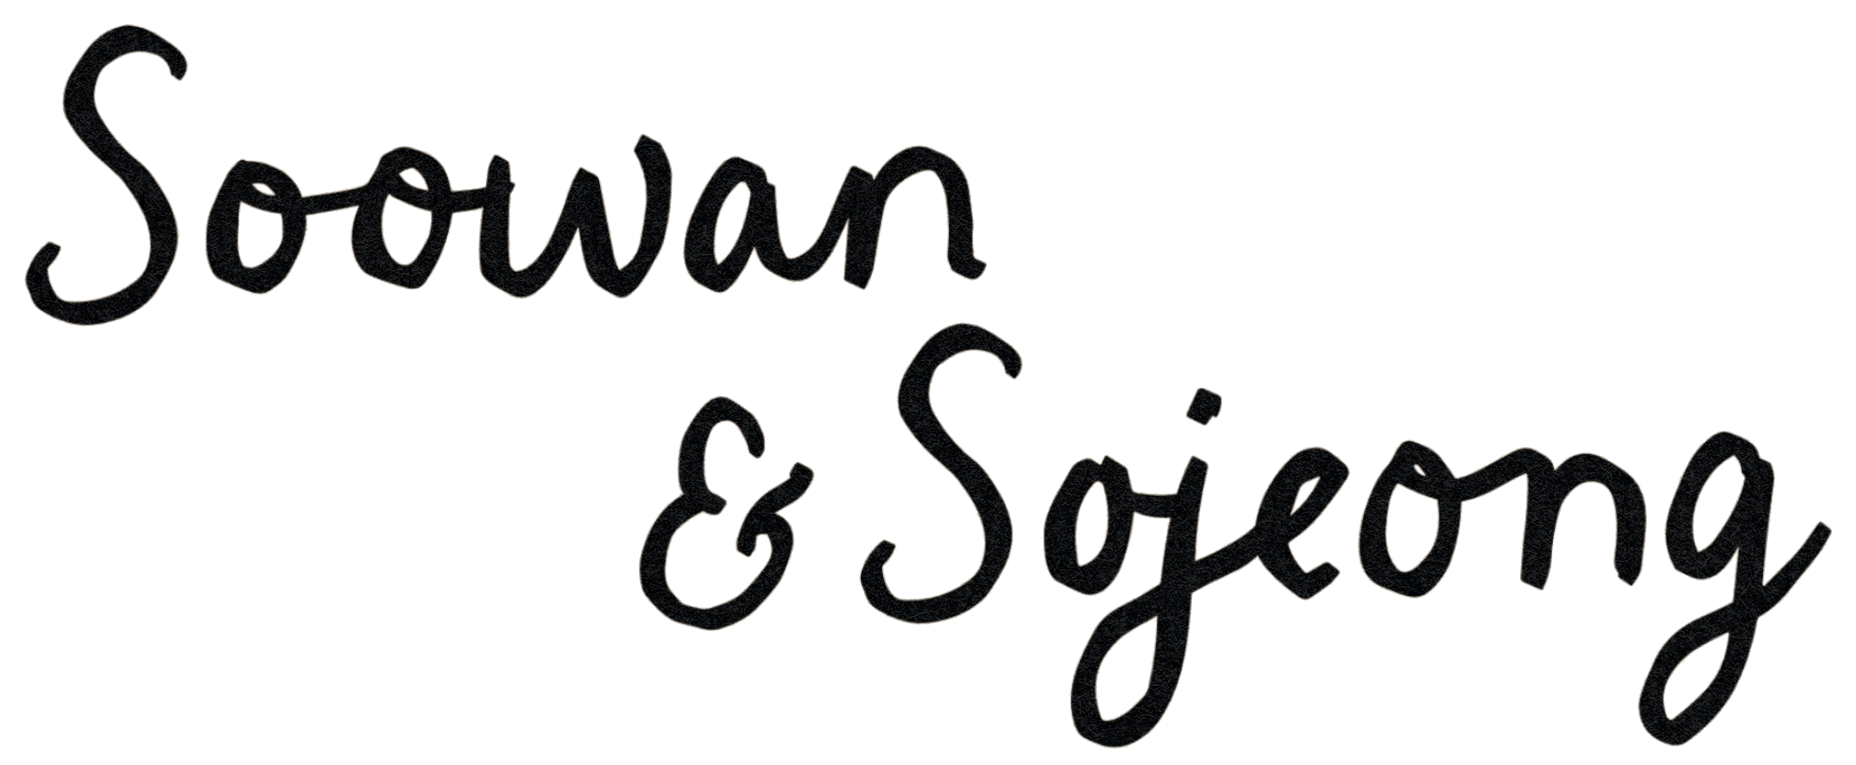
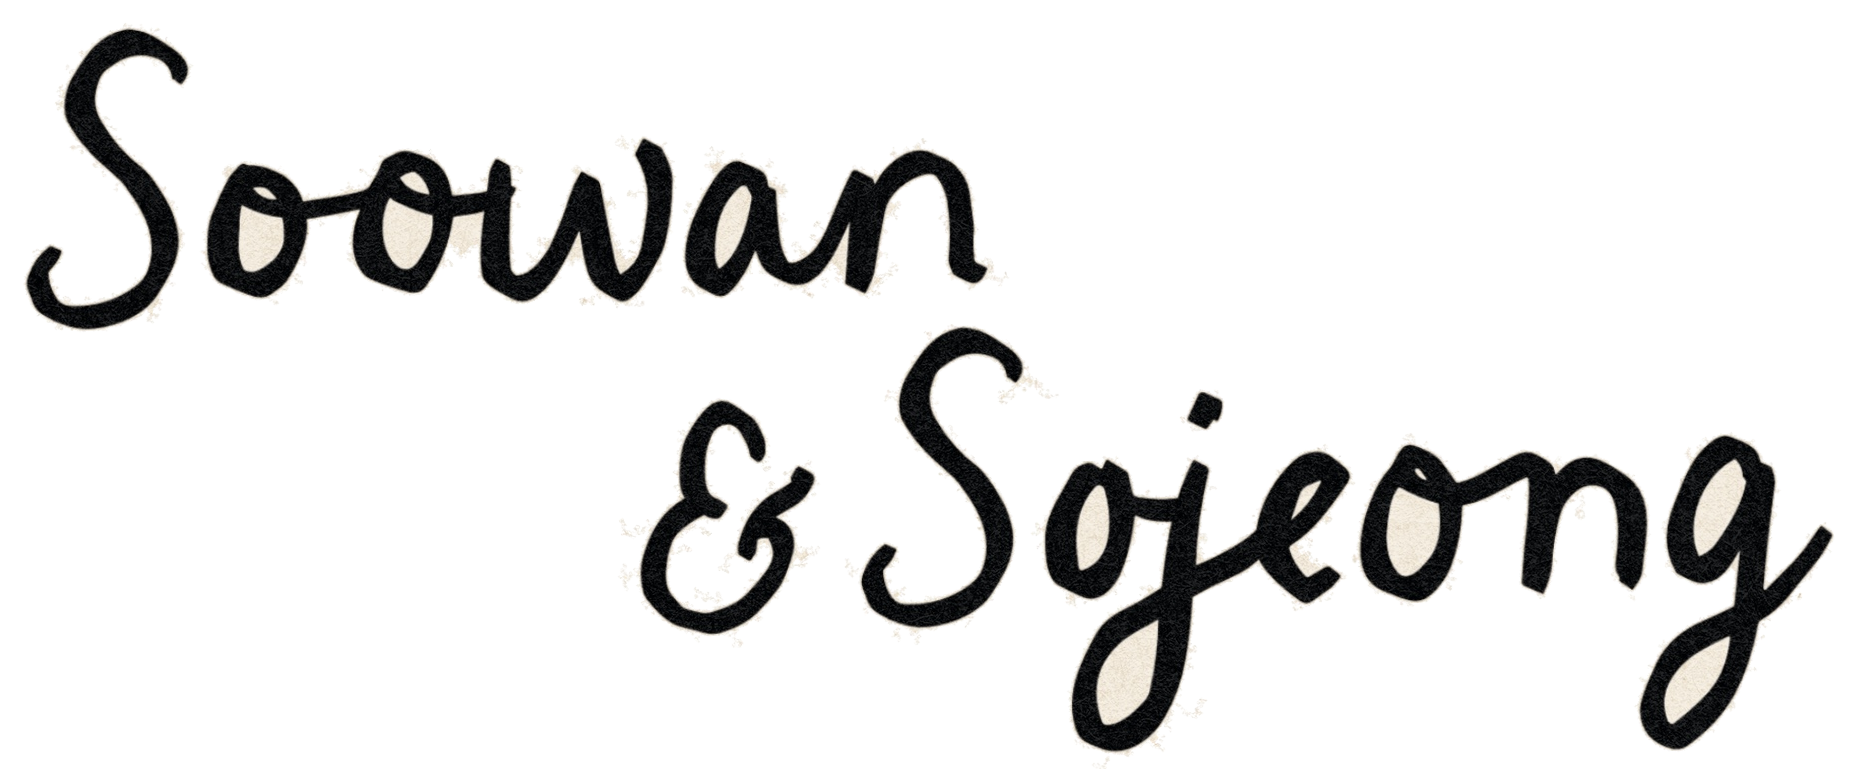
누끼 재작업: 종이색과 비슷한 드레스·베일·피부·다리 색이 빠지던 문제 수정 (스티커 컷 방식)
- cut-paper.py: 색 거리 램프 → "테두리와 이어진 종이색 영역만 배경" 으로 판정. 선 안쪽의 연분홍·살색·베일은 그대로 유지
  종이 섬유 얼룩(평균 색 거리 낮은 덩어리) 제거, 가장자리 띠는 색 거리로 알파를 매겨 베이지 테두리 제거, --paper 옵션
- running / wheelbarrow (+@800), vine, names, og.jpg 전부 재생성, 캐시 버전 올림

diff --git a/index.html b/index.html
@@ -25,7 +25,7 @@
   <link rel="preconnect" href="https://fonts.googleapis.com">
   <link rel="preconnect" href="https://fonts.gstatic.com" crossorigin>
   <link href="https://fonts.googleapis.com/css2?family=Cormorant+Garamond:ital,wght@0,400;1,400&family=Noto+Serif+KR:wght@300;400&family=Caveat:wght@500;600&family=Nanum+Pen+Script&display=swap" rel="stylesheet">
-  <link rel="stylesheet" href="css/style.css?v=20261018d">
+  <link rel="stylesheet" href="css/style.css?v=20261018e">
 </head>
 <body>
 
@@ -228,8 +228,8 @@
 
 <div class="toast" id="toast" role="status" aria-live="polite"></div>
 
-<script src="js/config.js?v=20261018d"></script>
-<script src="js/photos.js?v=20261018d"></script>
-<script src="js/main.js?v=20261018d"></script>
+<script src="js/config.js?v=20261018e"></script>
+<script src="js/photos.js?v=20261018e"></script>
+<script src="js/main.js?v=20261018e"></script>
 </body>
 </html>

diff --git a/tools/cut-paper.py b/tools/cut-paper.py
@@ -9,10 +9,15 @@
   --drop-above Y       윗변이 Y(원본 px)보다 위에 있는 덩어리는 버림 (손글씨 제거용)
   --drop-below Y       윗변이 Y(원본 px)보다 아래에 있는 덩어리는 버림 (손글씨만 남길 때)
   --min-area N         N px 미만 덩어리는 종이 얼룩으로 보고 버림 (기본 400)
+  --paper T            "종이색" 판정 거리 (기본 5.5). 연분홍 드레스·피부가 빠지면 낮추고, 종이가 남으면 높인다
   --pad N              여백 px (기본 24, 리사이즈 전 기준)
 
-배경색은 가장자리 중앙값으로 잡고, 색 거리에 따라 알파를 매긴 뒤
-알파로 되돌려(un-premultiply) 선 색을 복원하므로 어느 배경에 올려도 테두리가 뜨지 않는다.
+방식 (스티커 컷):
+  1) 종이 질감 노이즈를 흐려서 없앤 뒤, 가장자리 종이색(중앙값)과의 색 거리가 T 미만인 픽셀을 "종이 후보"로 본다
+  2) 종이 후보 중 그림 바깥 테두리와 이어진 덩어리만 배경으로 지운다
+     → 선 안쪽에 있는 연분홍 드레스·피부·베일·흰 셔츠처럼 종이와 색이 비슷한 영역은 그대로 남는다
+  3) 선 바깥에 남는 2~3px 종이색 띠(흐림 때문에 생김)는 테두리 띠에서만 걷어낸다
+  4) 가장자리 1px 는 알파로 부드럽게, 색은 알파로 되돌려(un-premultiply) 어느 배경에 올려도 테두리가 뜨지 않게 한다
 """
 import sys
 from pathlib import Path
@@ -21,9 +26,7 @@ import numpy as np
 from scipy import ndimage
 
 args = sys.argv[1:]
-opt = {}
-pos = []
-i = 0
+opt, pos, i = {}, [], 0
 while i < len(args):
     if args[i].startswith("--"):
         opt[args[i][2:]] = args[i + 1]; i += 2
@@ -38,44 +41,63 @@ full = np.asarray(im).astype(np.float32)
 edge = np.concatenate([full[:60].reshape(-1, 3), full[-60:].reshape(-1, 3), full[:, :60].reshape(-1, 3), full[:, -60:].reshape(-1, 3)])
 bg = np.median(edge, 0)
 
+oy = 0
 if "box" in opt:
     L, T, R, B = map(int, opt["box"].split(","))
     im = im.crop((L, T, R, B)); oy = T
-else:
-    oy = 0
 rgb = np.asarray(im).astype(np.float32)
-blur = np.asarray(im.filter(ImageFilter.GaussianBlur(1.2))).astype(np.float32)
-dist = np.sqrt(((blur - bg) ** 2).sum(-1))
-LO, HI = 38.0, 110.0                       # 종이 노이즈 상한 ~64, 선 ~300
-alpha = np.clip((dist - LO) / (HI - LO), 0, 1)
+h, w = rgb.shape[:2]
 
-lab, n = ndimage.label(alpha > 0.35)
+T_PAPER = float(opt.get("paper", 5.5))
+d_smooth = np.sqrt(((np.asarray(im.filter(ImageFilter.GaussianBlur(2.5))).astype(np.float32) - bg) ** 2).sum(-1))
+d_fine   = np.sqrt(((np.asarray(im.filter(ImageFilter.GaussianBlur(1.0))).astype(np.float32) - bg) ** 2).sum(-1))
+
+# 1) 종이 후보 → 2) 테두리와 이어진 덩어리만 배경
+paper = d_smooth < T_PAPER
+lab, n = ndimage.label(paper)
+border_ids = np.unique(np.concatenate([lab[0], lab[-1], lab[:, 0], lab[:, -1]]))
+border_ids = border_ids[border_ids > 0]
+background = np.isin(lab, border_ids)
+fg = ~background
+
+# 3) 선 바깥 종이색 띠 제거: 전경 가장자리 4px 띠 안에서, 미세 거리로도 종이색이면 배경으로
+band = fg & ~ndimage.binary_erosion(fg, iterations=4)
+fg = fg & ~(band & (d_fine < T_PAPER + 1.5))
+fg = ndimage.binary_opening(fg, iterations=1) | ndimage.binary_erosion(fg, iterations=1)   # 1px 돌기 정리
+
+# 덩어리 필터: 작은 것(min-area) · 종이 섬유 얼룩(평균 색 거리가 낮은 것) 제거, 손글씨 분리
+lab, n = ndimage.label(fg)
+idx = np.arange(n + 1)
+areas = ndimage.sum(np.ones_like(lab), lab, index=idx)
+meand = ndimage.mean(d_fine, lab, index=idx)
 keep = np.zeros(n + 1, bool)
 min_area = int(opt.get("min-area", 400))
+PAPER_BLOB = 14.0                                            # 평균 거리가 이보다 낮은 덩어리 = 종이 얼룩 (드레스 ~11 은 선과 붙어 있어 평균이 훨씬 높다)
 drop_above = int(opt["drop-above"]) - oy if "drop-above" in opt else None
 drop_below = int(opt["drop-below"]) - oy if "drop-below" in opt else None
-objs = ndimage.find_objects(lab)
-areas = ndimage.sum(np.ones_like(lab), lab, index=np.arange(n + 1))
-for k, sl in enumerate(objs, start=1):
-    if sl is None: continue
-    if areas[k] < min_area: continue
+for k, sl in enumerate(ndimage.find_objects(lab), start=1):
+    if sl is None or areas[k] < min_area or meand[k] < PAPER_BLOB: continue
     if drop_above is not None and sl[0].start < drop_above: continue
     if drop_below is not None and sl[0].start > drop_below: continue
     keep[k] = True
-mask = keep[lab]
-mask = ndimage.binary_dilation(mask, iterations=3)   # 램프 가장자리까지 살림
-alpha = np.where(mask, alpha, 0).astype(np.float32)
+fg = keep[lab]
 
-# 색 복원: orig = a*ink + (1-a)*bg  →  ink = (orig - (1-a)*bg) / a
-a3 = np.clip(alpha, 0.08, 1)[..., None]
-ink = (rgb - (1 - a3) * bg) / a3
+# 4) 가장자리: 바깥 4px 띠는 색 거리로 알파를 매겨(종이와 선의 혼합 픽셀 → 반투명) 베이지 테두리를 없애고, 안쪽은 불투명
+band = fg & ~ndimage.binary_erosion(fg, iterations=4)
+alpha = fg.astype(np.float32)
+alpha[band] = np.clip((d_fine[band] - 5.0) / 30.0, 0.0, 1.0)
+alpha = np.where(fg, alpha, 0.0)
+alpha = ndimage.gaussian_filter(alpha, 0.6)
+alpha = np.where(fg, alpha, np.minimum(alpha, 0.5)).astype(np.float32)   # 바깥으로 번진 것은 약하게만
+alpha = np.clip(alpha, 0, 1).astype(np.float32)
+a3 = np.clip(alpha, 0.15, 1)[..., None]
+ink = (rgb - (1 - a3) * bg) / a3                              # orig = a*ink + (1-a)*bg
 ink = np.where(alpha[..., None] > 0, ink, rgb)
 out = Image.fromarray(np.dstack([np.clip(ink, 0, 255), alpha * 255]).astype(np.uint8), "RGBA")
 
 pad = int(opt.get("pad", 24))
 b = Image.fromarray((alpha > 0.3).astype(np.uint8) * 255).getbbox()
-w, h = out.size
 out = out.crop((max(0, b[0] - pad), max(0, b[1] - pad), min(w, b[2] + pad), min(h, b[3] + pad)))
 out.thumbnail((maxw, maxw), Image.LANCZOS)
-out.save(dst / f"{name}.png", optimize=True); out.save(dst / f"{name}.webp", quality=90, method=6)
-print(name, out.size, f"bg={bg.astype(int).tolist()} components kept {keep.sum()}/{n}")
+out.save(dst / f"{name}.png", optimize=True); out.save(dst / f"{name}.webp", quality=92, method=6)
+print(name, out.size, f"bg={bg.astype(int).tolist()} paper<{T_PAPER} components kept {keep.sum()}/{n}")

diff --git a/README.md b/README.md
@@ -60,7 +60,7 @@ python tools/cut-paper.py "assets/source/수레 신랑신부(컬러).jpg"       
 python tools/cut-paper.py "assets/source/실물 뒷면_꽃덩굴.jpg"                vine        1200 --box 1560,0,1980,2480 --min-area 250 --pad 12
 python tools/cut-paper.py "assets/source/실물 앞면_달리는 신랑신부.jpg"       names       2000 --box 900,200,2800,1030 --drop-below 840 --min-area 250
 ```
-`--drop-above / --drop-below` 는 손글씨와 그림을 분리하는 옵션. OG 는 `names` + `running` 을 1200×630 흰 바탕에 올린 것.
+`--drop-above / --drop-below` 는 손글씨와 그림을 분리하는 옵션. 종이색과 비슷한 연분홍 드레스·피부·베일이 빠지면 `--paper` 값을 낮춘다(기본 5.5). OG 는 `names` + `running` 을 1200×630 흰 바탕에 올린 것.
 OG 를 바꾸면 developers.kakao.com/tool/clear/og 에서 캐시 삭제.
 
 ### 3) 실물에서 가져온 문구·폰트 (이미 반영됨)
